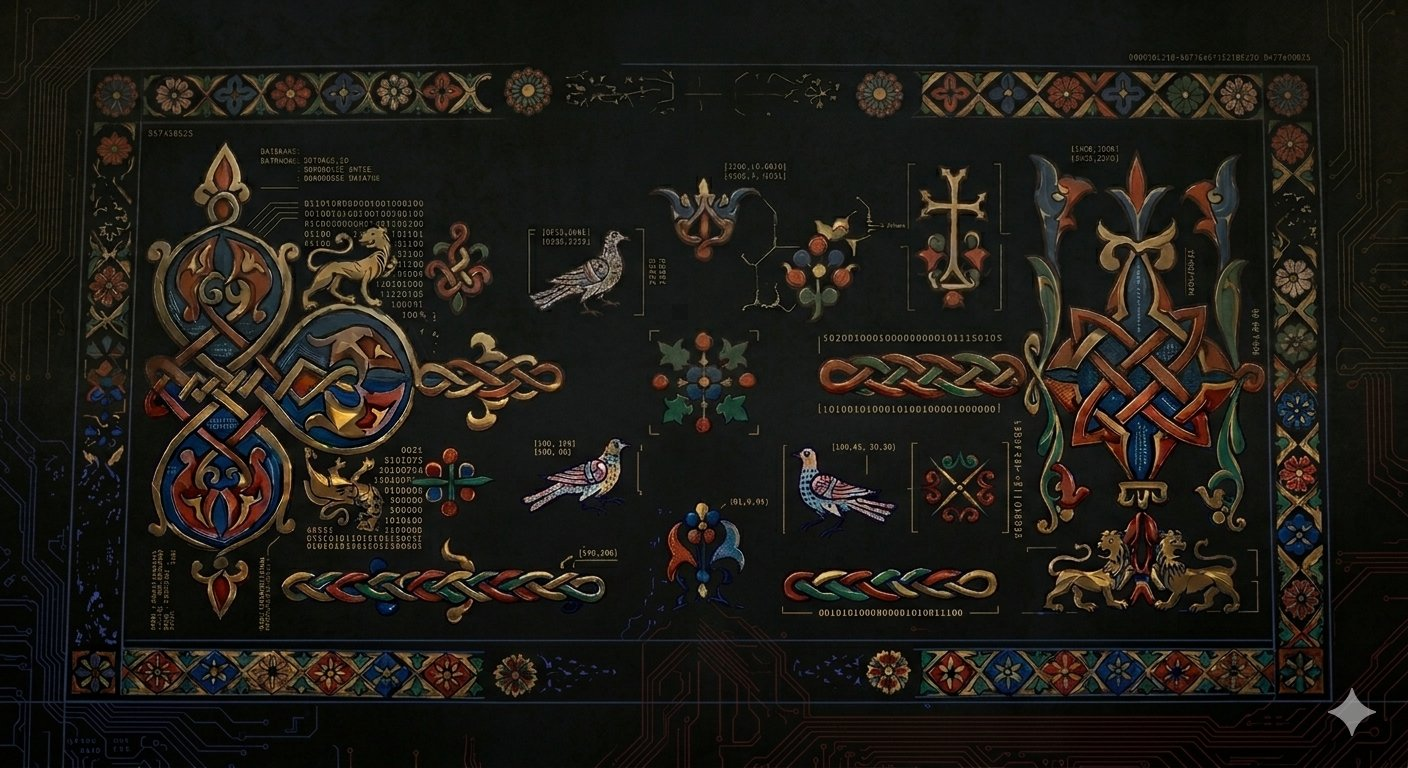
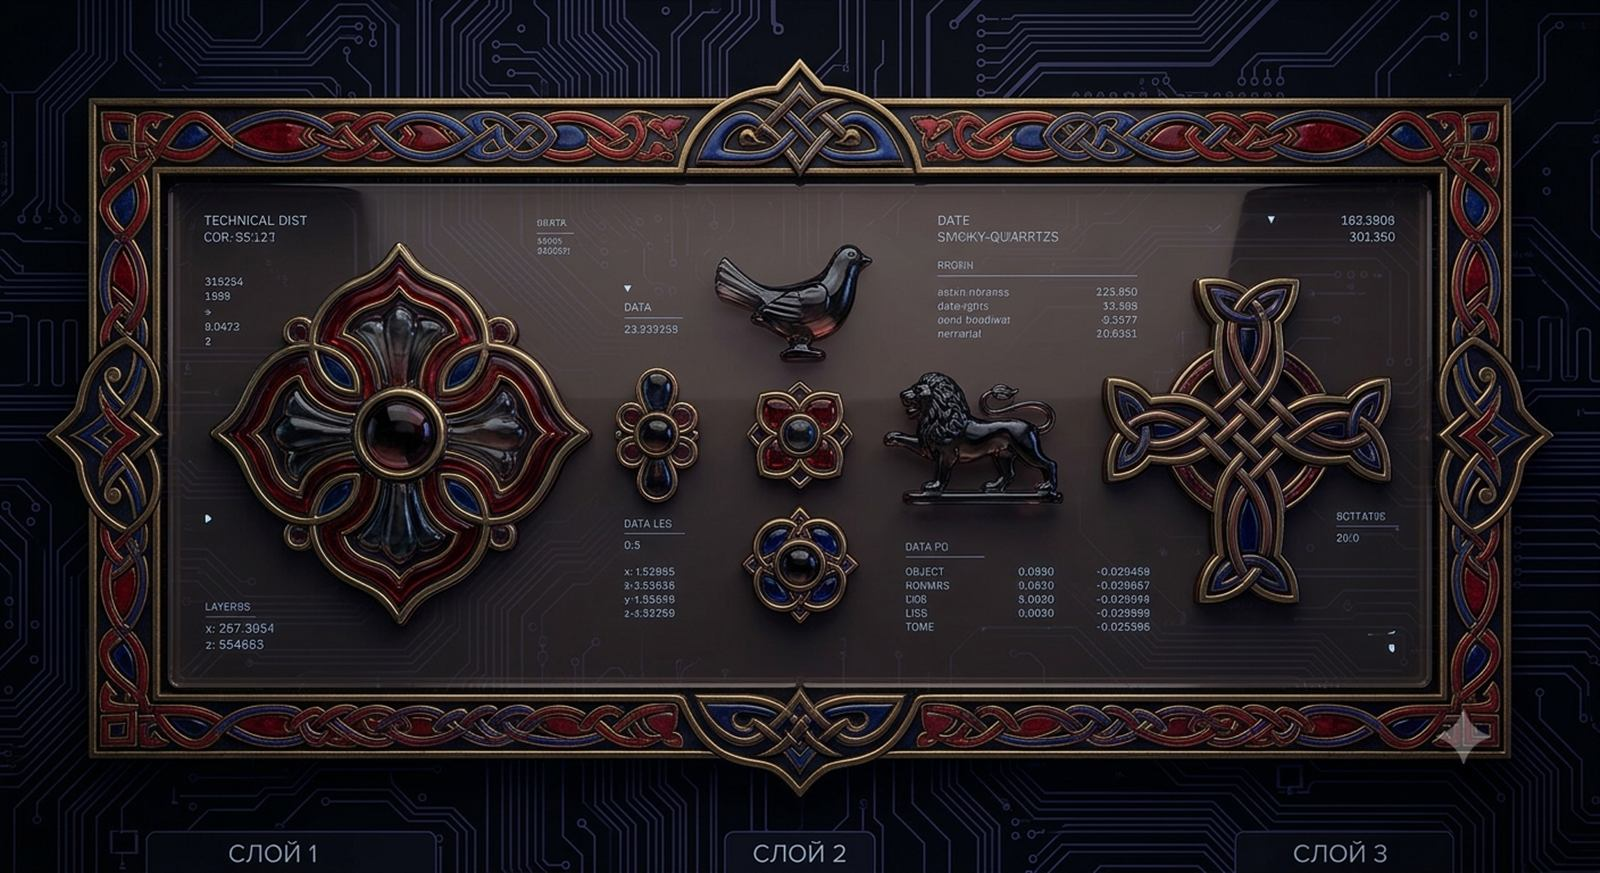
Updates

diff --git a/index.html b/index.html
@@ -8,8 +8,8 @@
     <link rel="preconnect" href="https://fonts.googleapis.com">
     <link rel="preconnect" href="https://fonts.gstatic.com" crossorigin>
     <link href="https://fonts.googleapis.com/css2?family=Fraunces:ital,opsz,wght@0,9..144,100..900;1,9..144,100..900&family=Instrument+Mono:ital,wght@0,300..700;1,300..700&family=Newsreader:ital,opsz,wght@0,6..72,200..800;1,6..72,200..800&family=Noto+Serif+Armenian:wght@100..900&display=swap" rel="stylesheet">
-    <script type="module" crossorigin src="/barr/assets/index-DMRoGrpK.js"></script>
-    <link rel="stylesheet" crossorigin href="/barr/assets/index-G5PPXN4T.css">
+    <script type="module" crossorigin src="/barr/assets/index-DY6DDFsC.js"></script>
+    <link rel="stylesheet" crossorigin href="/barr/assets/index-ClzEUAqC.css">
   </head>
   <body>
     <div id="app"></div>